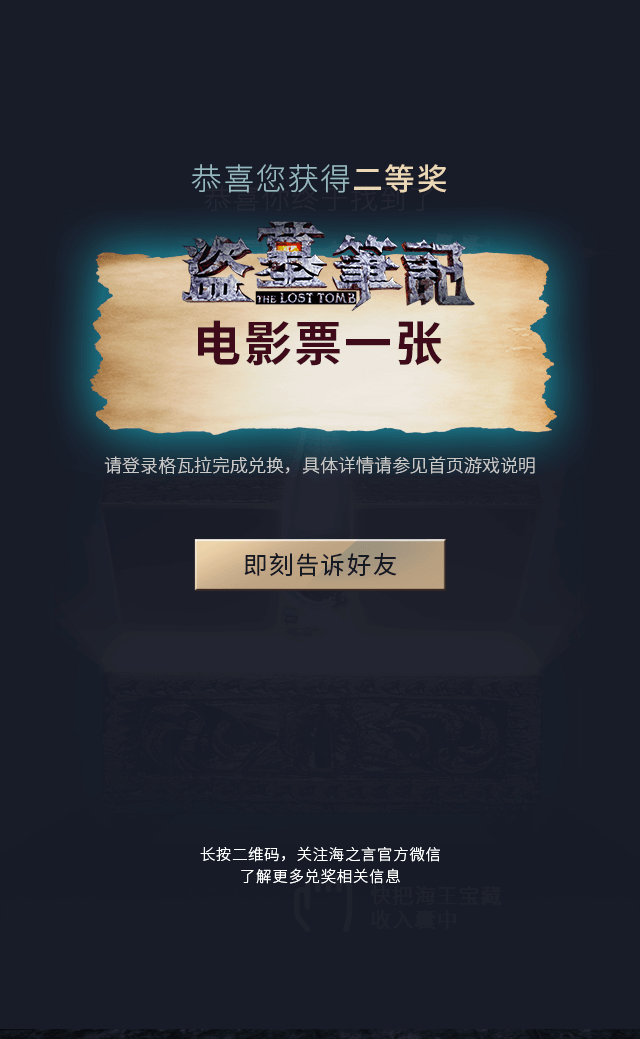
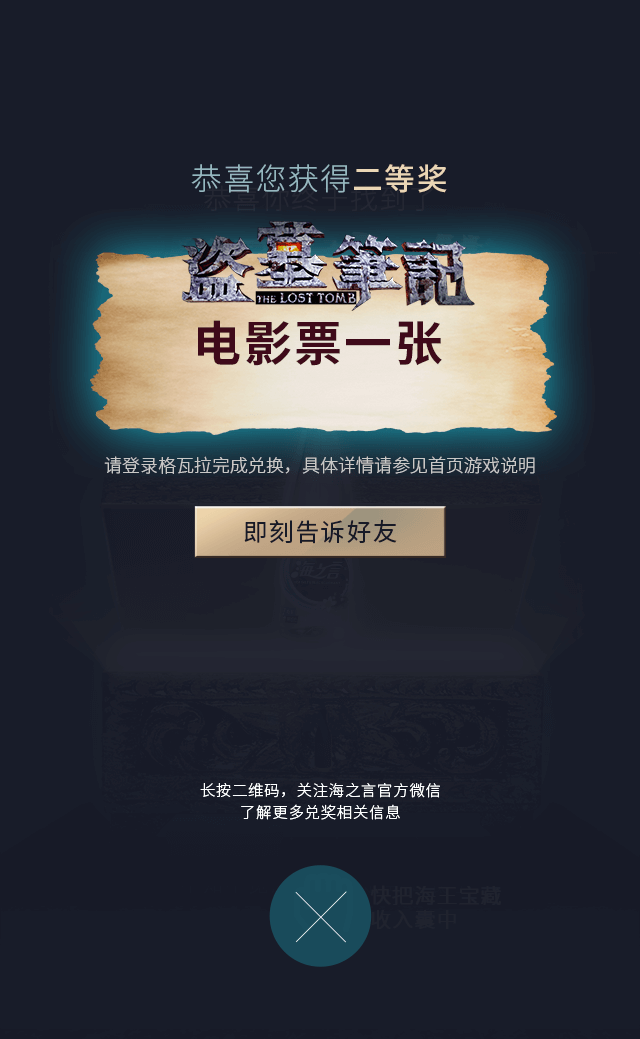
update

Changed region(s): [[0.2812, 0.462, 0.7188, 0.5852], [0.3125, 0.7392, 0.6875, 0.9548]]

diff --git a/public/assets/js/common-mod.js b/public/assets/js/common-mod.js
@@ -158,22 +158,32 @@ function closeRule() {
 function showMyAward(prize_id) {
     if( prize_id > 0 ){
         $j('.indexBtn1,.indexBtn2,.indexBtn3').hide();
-        $j('.pageAward').fadeIn(500);
+        $j('.pageAward1').fadeIn(500);//1等奖
+		//$j('.pageAward2').fadeIn(500);//2等奖
+		//$j('.pageAward3').fadeIn(500);//3等奖
     }
     else{
-        alert('您还没有中奖哦~');
+         $j('.indexBtn1,.indexBtn2,.indexBtn3').show();
+		 $j('.page0Award0').fadeIn(500);
     }
 
 }
 
 function closeAward() {
     $j('.indexBtn1,.indexBtn2,.indexBtn3').show();
-    $j('.pageAward').fadeOut(500);
+    $j('.page0Award1').fadeOut(500);
+	$j('.page0Award2').fadeOut(500);
+	$j('.page0Award3').fadeOut(500);
+	$j('.page0Award0').fadeOut(500);
 }
 
 function showShareNote() {
-
+$j('.shareBg').fadeIn(500);
 }
+
+function closeShare(){
+	$j('.shareBg').fadeOut(500);
+	}
 
 function getBottle() {
     $j('#pano').fadeOut(500);

diff --git a/public/assets/css/common.css b/public/assets/css/common.css
@@ -61,8 +61,10 @@ select,input,textarea{font-family:inherit; outline:none;}
 .page0Award1{ background:url(../images/page0Award1.png) 0 0 no-repeat;}
 .page0Award2{ background:url(../images/page0Award2.png) 0 0 no-repeat;}
 .page0Award3{ background:url(../images/page0Award3.png) 0 0 no-repeat;}
+.page0Award0{ background:url(../images/noAwardBg.png) 0 0 no-repeat;}
 .indexBtn5{ left:269px; top:762px;}
 .indexBtn6{ left:194px; top:370px;}
+.indexBtn6b{ left:194px; top:400px;}
 
 .page0Img5{ background:url(../images/page0Img5.png) 0 0 no-repeat;}
 .page0Img5Act{

diff --git a/public/assets/js/common.js b/public/assets/js/common.js
@@ -605,8 +605,12 @@ function goRes(url) {
 }
 
 function showShareNote() {
-
+$('.shareBg').fadeIn(500);
 }
+
+function closeShare(){
+	$('.shareBg').fadeOut(500);
+	}
 
 var cdt = 180; //3分钟
 var cdn = 180; //开始180秒

diff --git a/resources/views/index.blade.php b/resources/views/index.blade.php
@@ -47,13 +47,45 @@
         </div>
     </div>
 
-    <div class="pageAward page" style="display:none;">
+    <div class="pageAward1 page" style="display:none;">
     	<div class="h832">
         	<div class="innerDiv">
 				<div class="page0Award page0Award1 bgImg"></div>
                 <img src="{{asset('assets/images/page0AwardQc.png')}}" class="bgImg">
+                <div class="abs a2Numb">兑换码: <span id="prize_code_2"></span></div>
                 <a href="javascript:void(0);" class="abs indexBtn6" onClick="showShareNote();"><img src="{{asset('assets/images/space.gif')}}" width="252" height="52"></a>
                 <a href="javascript:void(0);" class="abs indexBtn5" onClick="closeAward();"><img src="{{asset('assets/images/space.gif')}}" width="103" height="103"></a>
+            </div>
+        </div>
+    </div>
+    
+    <div class="pageAward2 page" style="display:none;">
+    	<div class="h832">
+        	<div class="innerDiv">
+				<div class="page0Award page0Award2 bgImg"></div>
+                <img src="{{asset('assets/images/page0AwardQc.png')}}" class="bgImg">
+                <div class="abs a3Numb">兑换码: <span id="prize_code_3"></span></div>
+                <a href="javascript:void(0);" class="abs indexBtn6b" onClick="showShareNote();"><img src="{{asset('assets/images/space.gif')}}" width="252" height="52"></a>
+                <a href="javascript:void(0);" class="abs indexBtn5" onClick="closeAward();"><img src="{{asset('assets/images/space.gif')}}" width="103" height="103"></a>
+            </div>
+        </div>
+    </div>
+    
+    <div class="pageAward3 page" style="display:none;">
+    	<div class="h832">
+        	<div class="innerDiv">
+				<div class="page0Award page0Award3 bgImg"></div>
+                <img src="{{asset('assets/images/page0AwardQc.png')}}" class="bgImg">
+                <a href="javascript:void(0);" class="abs indexBtn6b" onClick="showShareNote();"><img src="{{asset('assets/images/space.gif')}}" width="252" height="52"></a>
+                <a href="javascript:void(0);" class="abs indexBtn5" onClick="closeAward();"><img src="{{asset('assets/images/space.gif')}}" width="103" height="103"></a>
+            </div>
+        </div>
+    </div>
+    
+    <div class="pageAward0 page" style="display:none;">
+    	<div class="h832">
+        	<div class="innerDiv">
+				<div class="page0Award page0Award0 bgImg" onClick="closePageAward0();"></div>
             </div>
         </div>
     </div>
@@ -99,6 +131,8 @@
 
 <img src="{{asset('assets/images/logo.png')}}" class="abs logo">
 <a href="javascript:void(0);" class="abs musicBtn"><img src="{{asset('assets/images/musicBtn.png')}}"></a>
+
+<img src="{{asset('assets/images/shareBg.png')}}" class="shareBg" style="display:none;" onClick="closeShare();">
 @endsection
 @section('scripts')
 <script src="{{asset('assets/js/jquery-1.9.1.min.js')}}"></script>

diff --git a/resources/views/game.blade.php b/resources/views/game.blade.php
@@ -216,6 +216,8 @@ body{ background:#000;}
 <a href="javascript:void(0);" class="abs musicBtn"><img src="{{asset('assets/images/musicBtn.png')}}"></a>
 
 <div class="abs colddownTime" style="display:none;">03:00</div>
+
+<img src="{{asset('assets/images/shareBg.png')}}" class="shareBg" style="display:none;" onClick="closeShare();">
 @endsection
 @section('scripts')
 <script src="{{asset('assets/js/jquery-1.9.1.min.js')}}"></script>
